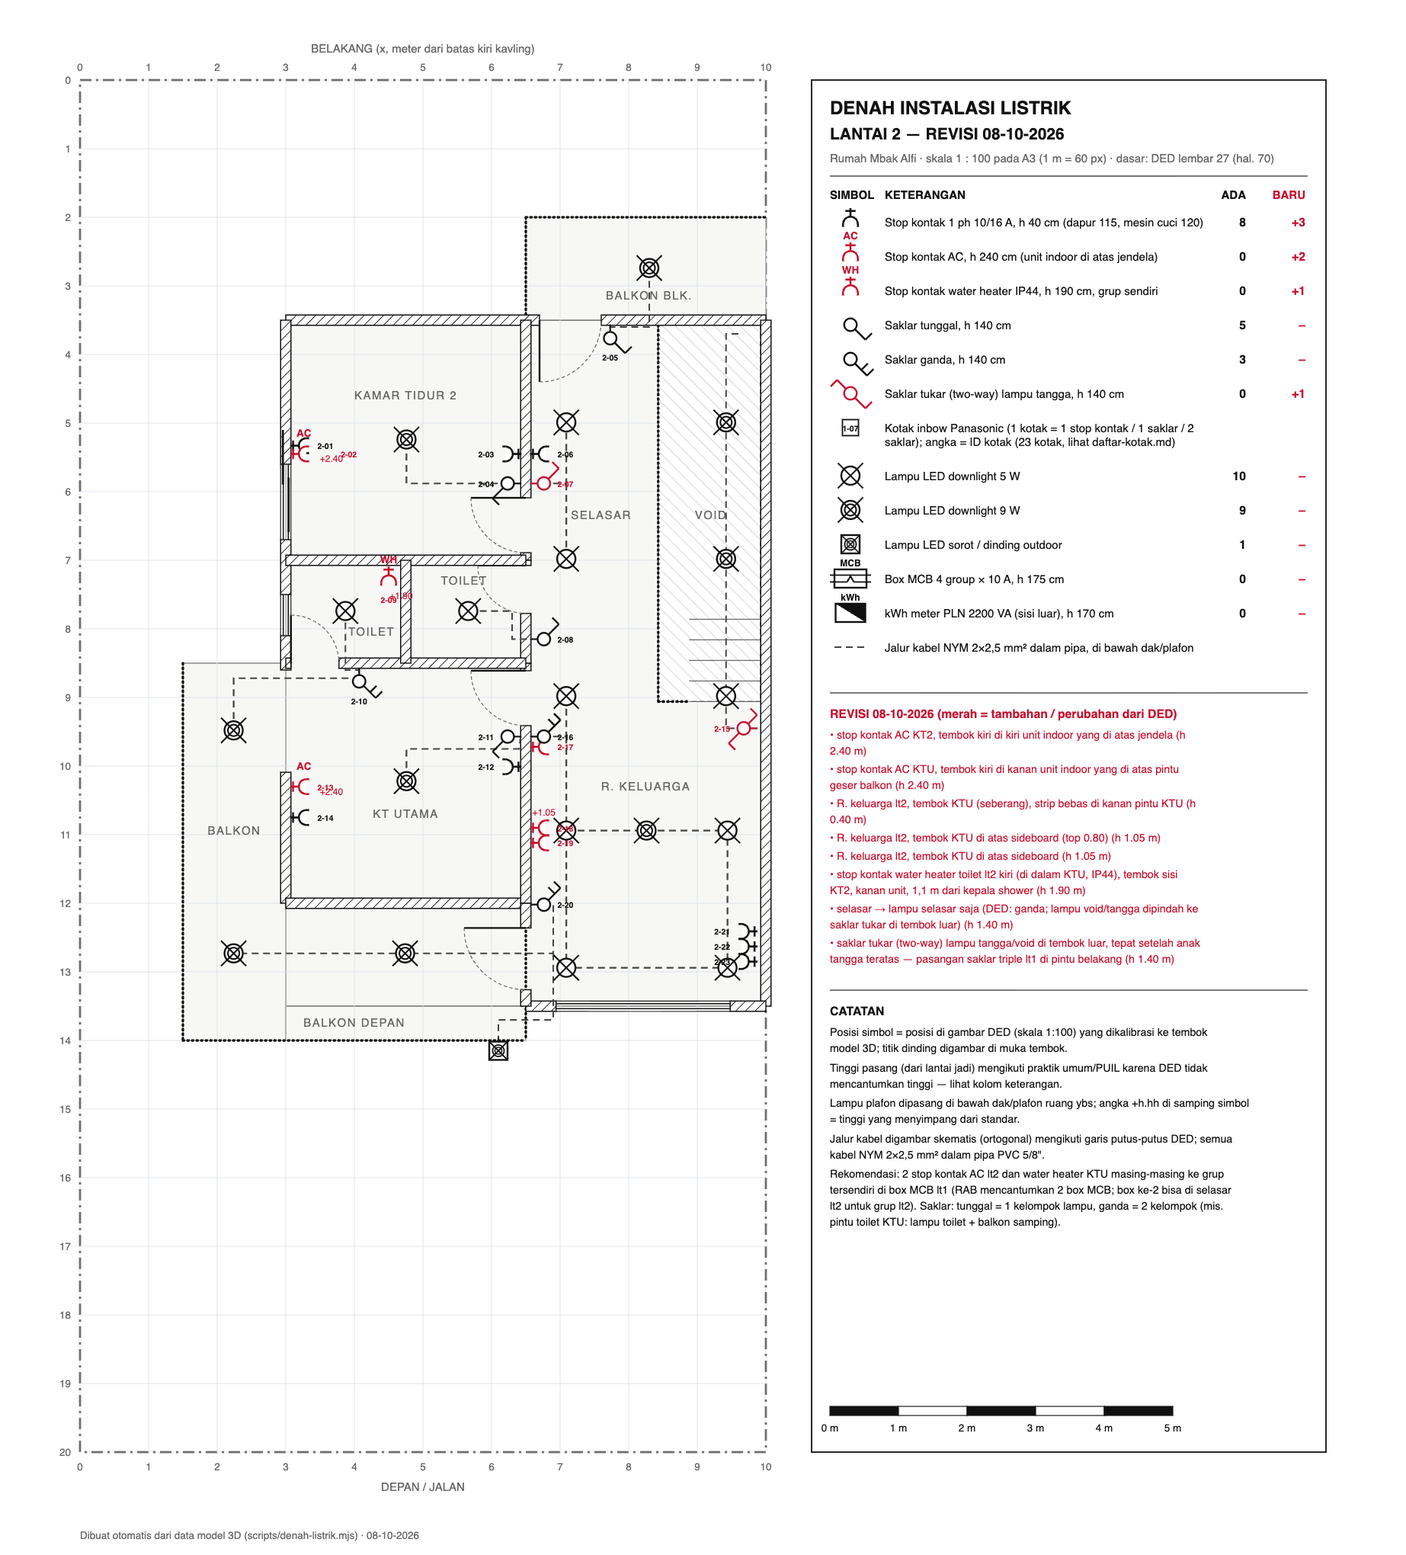
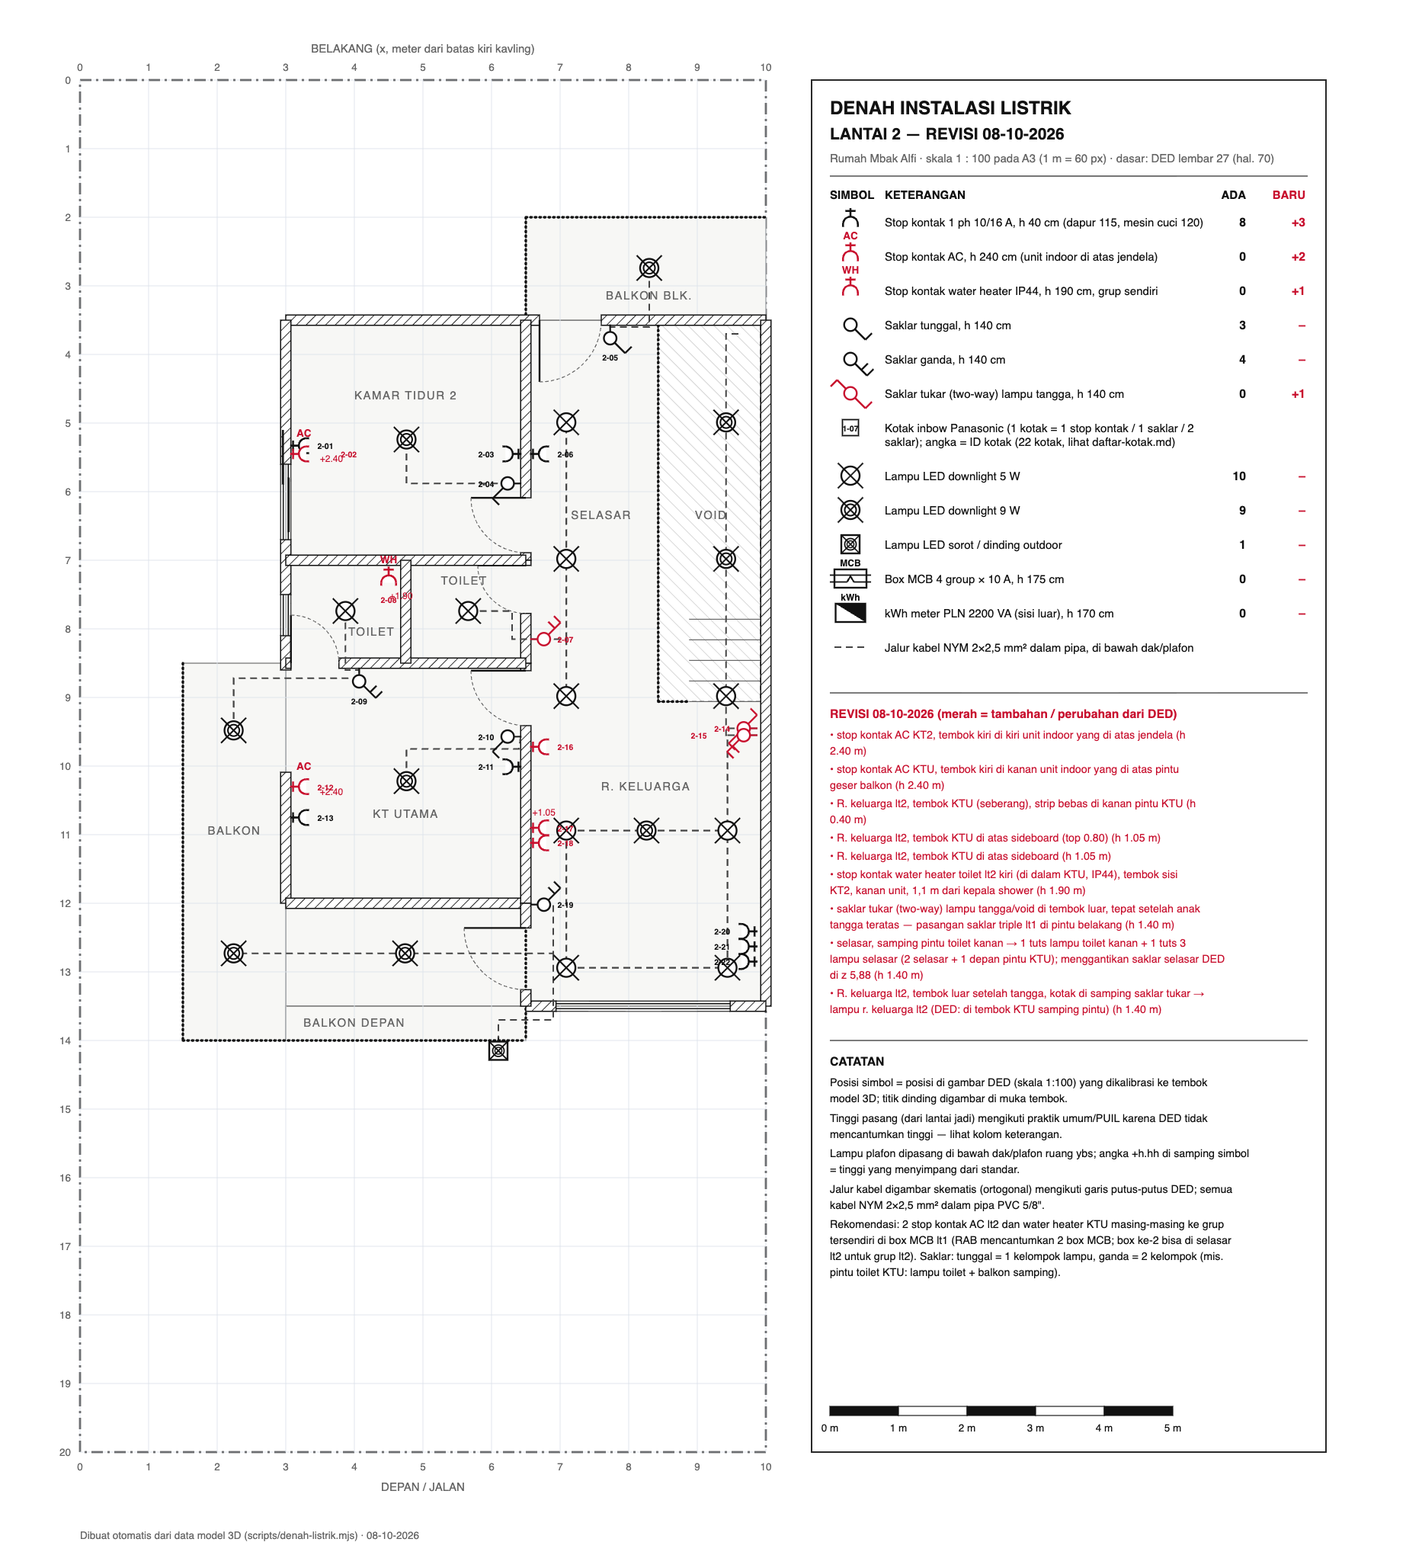
Lantai 2: saklar ganda r. keluarga ke tembok luar di samping saklar tukar; saklar selasar digabung
- Saklar ganda r. keluarga lt2 pindah dari tembok KTU ke tembok luar (9,876; 9,55), kotak di samping
  saklar tukar; saklar selasar di z 5,88 dihapus; saklar di samping pintu toilet kanan jadi ganda:
  1 tuts toilet kanan + 1 tuts 3 lampu selasar (2 selasar + lampu depan pintu KTU).
- Jalur kabel, denah lt2, daftar kotak (22 kotak lt2) dan RAB diperbarui; label ID kotak yang
  berdampingan dinaikkan supaya tidak saling menutup.

Changed region(s): [[0.587, 0.5559, 0.8959, 0.8338], [0.3707, 0.4632, 0.4016, 0.4941]]

diff --git a/src/layout/elektrik.js b/src/layout/elektrik.js
@@ -85,12 +85,11 @@ export const PERANGKAT = [
   // sebelum ujung (stub), tunggal = batang berakhir di tick; dicocokkan dengan jumlah kelompok lampu per saklar & legenda ----------------
   { lvl: 'lt2', t: 'saklar1', x: 7.73, z: 3.564, n: '+z', h: 1.4, r: 'selasar, kanan pintu balkon belakang → lampu balkon' },
   { lvl: 'lt2', t: 'saklar1', x: 6.435, z: 5.88, n: '-x', h: 1.4, r: 'KT2, samping pintu → lampu KT2 (simbol DED: tunggal, 1 kelompok lampu)' },
-  { lvl: 'lt2', t: 'saklar1', x: 6.563, z: 5.88, n: '+x', h: 1.4, rev: true, r: 'REVISI: selasar → lampu selasar saja (DED: ganda; lampu void/tangga dipindah ke saklar tukar di tembok luar)' },
   { lvl: 'lt2', t: 'saklar1', tukar: true, x: 9.876, z: 9.45, n: '-x', h: 1.4, baru: true, r: 'REVISI: saklar tukar (two-way) lampu tangga/void di tembok luar, tepat setelah anak tangga teratas — pasangan saklar triple lt1 di pintu belakang' },
-  { lvl: 'lt2', t: 'saklar1', x: 6.563, z: 8.15, n: '+x', h: 1.4, r: 'selasar → lampu toilet kanan' },
+  { lvl: 'lt2', t: 'saklar2', x: 6.563, z: 8.15, n: '+x', h: 1.4, rev: true, r: 'REVISI: selasar, samping pintu toilet kanan → 1 tuts lampu toilet kanan + 1 tuts 3 lampu selasar (2 selasar + 1 depan pintu KTU); menggantikan saklar selasar DED di z 5,88' },
   { lvl: 'lt2', t: 'saklar2', x: 4.07, z: 8.565, n: '+z', h: 1.4, r: 'KTU, kanan pintu toilet → lampu toilet kiri + lampu balkon samping kiri (simbol DED: ganda, 2 kelompok)' },
   { lvl: 'lt2', t: 'saklar1', x: 6.435, z: 9.57, n: '-x', h: 1.4, r: 'KTU, samping pintu → lampu KTU' },
-  { lvl: 'lt2', t: 'saklar2', x: 6.563, z: 9.57, n: '+x', h: 1.4, r: 'R. keluarga lt2, samping pintu KTU → lampu r. keluarga' },
+  { lvl: 'lt2', t: 'saklar2', x: 9.876, z: 9.55, n: '-x', h: 1.4, rev: true, r: 'REVISI: R. keluarga lt2, tembok luar setelah tangga, kotak di samping saklar tukar → lampu r. keluarga lt2 (DED: di tembok KTU samping pintu)' },
   { lvl: 'lt2', t: 'saklar2', x: 6.563, z: 12.02, n: '+x', h: 1.4, r: 'R. keluarga lt2, samping pintu balkon → lampu balkon depan + sorot' },
 ];
 
@@ -158,16 +157,17 @@ export const JALUR = [
   // lantai 2
   { lvl: 'lt2', pts: [[7.73, 3.575], [7.73, 3.6], [8.30, 3.6], [8.30, 2.74]] },
   { lvl: 'lt2', pts: [[6.425, 5.88], [4.76, 5.88], [4.76, 5.24]] },
-  { lvl: 'lt2', pts: [[6.563, 5.88], [7.09, 5.88], [7.09, 4.99]] },
-  { lvl: 'lt2', pts: [[7.09, 5.88], [7.09, 6.98]] },
+  { lvl: 'lt2', pts: [[6.575, 8.15], [7.09, 8.15], [7.09, 8.98]] }, // saklar ganda selasar → lampu depan pintu KTU
+  { lvl: 'lt2', pts: [[7.09, 8.15], [7.09, 6.98], [7.09, 4.99]] }, // … dan 2 lampu selasar
   { lvl: 'lt2', pts: [[9.876, 9.45], [9.42, 9.45], [9.42, 8.98], [9.42, 4.99]] }, // lampu void/tangga dari saklar tukar lt2
   { lvl: 'lt2', pts: [[9.6, 3.7], [9.42, 3.7], [9.42, 4.99]] }, // traveller two-way dari saklar triple lt1 (riser di pojok belakang kanan)
   { lvl: 'lt2', pts: [[5.66, 7.74], [6.3, 7.74], [6.3, 8.15], [6.575, 8.15]] },
   { lvl: 'lt2', pts: [[3.87, 7.74], [3.87, 8.6], [4.07, 8.6], [4.07, 8.575]] },
   { lvl: 'lt2', pts: [[2.24, 9.48], [2.24, 8.72], [4.07, 8.72], [4.07, 8.6]] },
   { lvl: 'lt2', pts: [[6.425, 9.57], [6.4, 9.75], [4.76, 9.75], [4.76, 10.22]] },
-  { lvl: 'lt2', pts: [[6.563, 9.57], [7.09, 9.57], [7.09, 8.98]] },
-  { lvl: 'lt2', pts: [[7.09, 9.57], [7.09, 12.94], [9.44, 12.94], [9.44, 10.94]] },
+  { lvl: 'lt2', pts: [[9.876, 9.55], [9.44, 9.55], [9.44, 10.94]] }, // saklar ganda r. keluarga lt2 (tembok luar) → lampu r. keluarga
+  { lvl: 'lt2', pts: [[9.44, 9.55], [9.42, 9.55], [9.42, 8.98]] },
+  { lvl: 'lt2', pts: [[7.09, 10.94], [7.09, 12.94], [9.44, 12.94], [9.44, 10.94]] },
   { lvl: 'lt2', pts: [[7.09, 10.94], [9.44, 10.94]] },
   { lvl: 'lt2', pts: [[6.575, 12.02], [6.9, 12.02], [6.9, 12.73], [4.74, 12.73], [2.24, 12.73]] },
   { lvl: 'lt2', pts: [[6.9, 12.73], [6.9, 13.7], [6.1, 13.7], [6.1, 13.95]] },

diff --git a/src/elektrik.js b/src/elektrik.js
@@ -67,7 +67,11 @@ export function buildElektrik(ceilingAt) {
     holder.name = `elek-${d.t}`; holder.userData.elek = d; g.add(holder);
     if (d.t === 'stopkontak' || d.t === 'saklar1' || d.t === 'saklar2') {
       placeAsset(holder, d.t === 'stopkontak' ? 'pn_socket' : d.t === 'saklar1' ? 'pn_sw1' : 'pn_sw2', {});
-      if (d.id) { const sp = labelSprite(d.id, !!(d.baru || d.rev)); sp.position.set(0, 0.085, 0.03); holder.add(sp); }
+      if (d.id) { // label; kotak berdampingan (< 15 cm) → label kotak kedua dinaikkan supaya tidak saling tutup
+        const tetangga = PERANGKAT.filter((q) => q.lvl === d.lvl && q.id && q !== d && Math.hypot(q.x - d.x, q.z - d.z) < 0.15);
+        const naik = tetangga.some((q) => q.id < d.id);
+        const sp = labelSprite(d.id, !!(d.baru || d.rev)); sp.position.set(0, naik ? 0.145 : 0.085, 0.03); holder.add(sp);
+      }
     } else if (d.t === 'cctv') {
       // kamera: pelat bracket di bidang pasang; kepala ('head') diputar. Tembok: yaw relatif normal + pitch. Plafon ('dn'):
       // holder diputar Y(yaw dunia) lalu X(+90°) supaya lengan menggantung; kepala ditegakkan −(90°−pitch).

diff --git a/docs/daftar-kotak.md b/docs/daftar-kotak.md
@@ -38,7 +38,7 @@ ID kotak yang sama dipakai di tiga tempat supaya bisa dicocokkan saat evaluasi: 
 | **1-28** | R. keluarga | 1 stop kontak | 0.35 | 9.87, 12.52 | tembok kanan (muka ke kiri) | 🔴 REVISI: R. keluarga, tembok kanan depan, di balik meja samping (DED: z 10.94) |
 | **1-29** | Selasar samping (luar) | 2 saklar | 1.40 | 2.94, 10.22 | tembok kanan (muka ke kiri) | teras samping (luar) → lampu taman/pagar |
 
-## Lantai 2 — 23 kotak (14 stop kontak, 6 × 1 saklar, 3 × 2 saklar)
+## Lantai 2 — 22 kotak (14 stop kontak, 4 × 1 saklar, 4 × 2 saklar)
 
 | ID | Ruang | Isi kotak | h (m) | Posisi (x, z) | Tembok | Keterangan |
 |---|---|---|---|---|---|---|
@@ -48,31 +48,30 @@ ID kotak yang sama dipakai di tiga tempat supaya bisa dicocokkan saat evaluasi: 
 | **2-04** | KT2 | 1 saklar | 1.40 | 6.43, 5.88 | tembok kanan (muka ke kiri) | KT2, samping pintu → lampu KT2 (simbol DED: tunggal, 1 kelompok lampu) |
 | **2-05** | Selasar | 1 saklar | 1.40 | 7.73, 3.56 | tembok belakang ruang (muka ke +z / ke depan) | selasar, kanan pintu balkon belakang → lampu balkon |
 | **2-06** | Selasar | 1 stop kontak | 0.40 | 6.56, 5.45 | tembok kiri (muka ke kanan) | selasar, tembok KT2 |
-| **2-07** | Selasar | 1 saklar | 1.40 | 6.56, 5.88 | tembok kiri (muka ke kanan) | 🔴 REVISI: selasar → lampu selasar saja (DED: ganda; lampu void/tangga dipindah ke saklar tukar di tembok luar) |
-| **2-08** | Selasar | 1 saklar | 1.40 | 6.56, 8.15 | tembok kiri (muka ke kanan) | selasar → lampu toilet kanan |
-| **2-09** | Toilet kiri (KTU) | 1 stop kontak water heater (IP44) | 1.90 | 4.50, 7.09 | tembok belakang ruang (muka ke +z / ke depan) | 🔴 BARU: stop kontak water heater toilet lt2 kiri (di dalam KTU, IP44), tembok sisi KT2, kanan unit, 1,1 m dari kepala shower |
-| **2-10** | KT utama | 2 saklar | 1.40 | 4.07, 8.56 | tembok belakang ruang (muka ke +z / ke depan) | KTU, kanan pintu toilet → lampu toilet kiri + lampu balkon samping kiri (simbol DED: ganda, 2 kelompok) |
-| **2-11** | KT utama | 1 saklar | 1.40 | 6.43, 9.57 | tembok kanan (muka ke kiri) | KTU, samping pintu → lampu KTU |
-| **2-12** | KT utama | 1 stop kontak | 0.40 | 6.43, 10.01 | tembok kanan (muka ke kiri) | KTU, tembok kanan (meja rias) |
-| **2-13** | KT utama | 1 stop kontak AC | 2.40 | 3.06, 10.30 | tembok kiri (muka ke kanan) | 🔴 BARU: stop kontak AC KTU, tembok kiri di kanan unit indoor yang di atas pintu geser balkon |
-| **2-14** | KT utama | 1 stop kontak | 0.40 | 3.06, 10.75 | tembok kiri (muka ke kanan) | KTU, tembok kiri |
-| **2-15** | R. keluarga lt2 | 1 saklar tukar | 1.40 | 9.88, 9.45 | tembok kanan (muka ke kiri) | 🔴 BARU: saklar tukar (two-way) lampu tangga/void di tembok luar, tepat setelah anak tangga teratas — pasangan saklar triple lt1 di pintu belakang |
-| **2-16** | R. keluarga lt2 | 2 saklar | 1.40 | 6.56, 9.57 | tembok kiri (muka ke kanan) | R. keluarga lt2, samping pintu KTU → lampu r. keluarga |
-| **2-17** | R. keluarga lt2 | 1 stop kontak | 0.40 | 6.56, 9.72 | tembok kiri (muka ke kanan) | 🔴 BARU: R. keluarga lt2, tembok KTU (seberang), strip bebas di kanan pintu KTU |
-| **2-18** | R. keluarga lt2 | 1 stop kontak | 1.05 | 6.56, 10.90 | tembok kiri (muka ke kanan) | 🔴 BARU: R. keluarga lt2, tembok KTU di atas sideboard (top 0.80) |
-| **2-19** | R. keluarga lt2 | 1 stop kontak | 1.05 | 6.56, 11.12 | tembok kiri (muka ke kanan) | 🔴 BARU: R. keluarga lt2, tembok KTU di atas sideboard |
-| **2-20** | R. keluarga lt2 | 2 saklar | 1.40 | 6.56, 12.02 | tembok kiri (muka ke kanan) | R. keluarga lt2, samping pintu balkon → lampu balkon depan + sorot |
-| **2-21** | R. keluarga lt2 | 1 stop kontak | 0.40 | 9.88, 12.41 | tembok kanan (muka ke kiri) | R. keluarga lt2, tembok kanan depan |
-| **2-22** | R. keluarga lt2 | 1 stop kontak | 0.40 | 9.88, 12.63 | tembok kanan (muka ke kiri) | R. keluarga lt2, tembok kanan depan |
-| **2-23** | R. keluarga lt2 | 1 stop kontak | 0.40 | 9.88, 12.85 | tembok kanan (muka ke kiri) | R. keluarga lt2, tembok kanan depan |
+| **2-07** | Selasar | 2 saklar | 1.40 | 6.56, 8.15 | tembok kiri (muka ke kanan) | 🔴 REVISI: selasar, samping pintu toilet kanan → 1 tuts lampu toilet kanan + 1 tuts 3 lampu selasar (2 selasar + 1 depan pintu KTU); menggantikan saklar selasar DED di z 5,88 |
+| **2-08** | Toilet kiri (KTU) | 1 stop kontak water heater (IP44) | 1.90 | 4.50, 7.09 | tembok belakang ruang (muka ke +z / ke depan) | 🔴 BARU: stop kontak water heater toilet lt2 kiri (di dalam KTU, IP44), tembok sisi KT2, kanan unit, 1,1 m dari kepala shower |
+| **2-09** | KT utama | 2 saklar | 1.40 | 4.07, 8.56 | tembok belakang ruang (muka ke +z / ke depan) | KTU, kanan pintu toilet → lampu toilet kiri + lampu balkon samping kiri (simbol DED: ganda, 2 kelompok) |
+| **2-10** | KT utama | 1 saklar | 1.40 | 6.43, 9.57 | tembok kanan (muka ke kiri) | KTU, samping pintu → lampu KTU |
+| **2-11** | KT utama | 1 stop kontak | 0.40 | 6.43, 10.01 | tembok kanan (muka ke kiri) | KTU, tembok kanan (meja rias) |
+| **2-12** | KT utama | 1 stop kontak AC | 2.40 | 3.06, 10.30 | tembok kiri (muka ke kanan) | 🔴 BARU: stop kontak AC KTU, tembok kiri di kanan unit indoor yang di atas pintu geser balkon |
+| **2-13** | KT utama | 1 stop kontak | 0.40 | 3.06, 10.75 | tembok kiri (muka ke kanan) | KTU, tembok kiri |
+| **2-14** | R. keluarga lt2 | 1 saklar tukar | 1.40 | 9.88, 9.45 | tembok kanan (muka ke kiri) | 🔴 BARU: saklar tukar (two-way) lampu tangga/void di tembok luar, tepat setelah anak tangga teratas — pasangan saklar triple lt1 di pintu belakang |
+| **2-15** | R. keluarga lt2 | 2 saklar | 1.40 | 9.88, 9.55 | tembok kanan (muka ke kiri) | 🔴 REVISI: R. keluarga lt2, tembok luar setelah tangga, kotak di samping saklar tukar → lampu r. keluarga lt2 (DED: di tembok KTU samping pintu) |
+| **2-16** | R. keluarga lt2 | 1 stop kontak | 0.40 | 6.56, 9.72 | tembok kiri (muka ke kanan) | 🔴 BARU: R. keluarga lt2, tembok KTU (seberang), strip bebas di kanan pintu KTU |
+| **2-17** | R. keluarga lt2 | 1 stop kontak | 1.05 | 6.56, 10.90 | tembok kiri (muka ke kanan) | 🔴 BARU: R. keluarga lt2, tembok KTU di atas sideboard (top 0.80) |
+| **2-18** | R. keluarga lt2 | 1 stop kontak | 1.05 | 6.56, 11.12 | tembok kiri (muka ke kanan) | 🔴 BARU: R. keluarga lt2, tembok KTU di atas sideboard |
+| **2-19** | R. keluarga lt2 | 2 saklar | 1.40 | 6.56, 12.02 | tembok kiri (muka ke kanan) | R. keluarga lt2, samping pintu balkon → lampu balkon depan + sorot |
+| **2-20** | R. keluarga lt2 | 1 stop kontak | 0.40 | 9.88, 12.41 | tembok kanan (muka ke kiri) | R. keluarga lt2, tembok kanan depan |
+| **2-21** | R. keluarga lt2 | 1 stop kontak | 0.40 | 9.88, 12.63 | tembok kanan (muka ke kiri) | R. keluarga lt2, tembok kanan depan |
+| **2-22** | R. keluarga lt2 | 1 stop kontak | 0.40 | 9.88, 12.85 | tembok kanan (muka ke kiri) | R. keluarga lt2, tembok kanan depan |
 
 ## Rekap belanja kotak
 
 | Isi kotak | Jumlah |
 |---|---|
 | Kotak 1 stop kontak (termasuk 3 AC, 2 water heater IP44, 2 NVR) | 35 |
-| Kotak 1 saklar (termasuk 2 saklar tukar) | 9 |
-| Kotak 2 saklar | 8 |
-| **Total kotak / inbow doos** | **52** |
+| Kotak 1 saklar (termasuk 2 saklar tukar) | 7 |
+| Kotak 2 saklar | 9 |
+| **Total kotak / inbow doos** | **51** |
 
-Catatan: stop kontak water heater (1-16, 2-09) perlu varian dengan tutup (IP44) — pastikan seri kotak ini punya varian itu, kalau tidak pakai stop kontak IP44 merek lain di titik tersebut. Ukuran pelat 90 mm adalah asumsi dari inbow doos 86 mm; cocokkan dengan kemasan produk saat evaluasi.
+Catatan: stop kontak water heater (1-16, 2-08) perlu varian dengan tutup (IP44) — pastikan seri kotak ini punya varian itu, kalau tidak pakai stop kontak IP44 merek lain di titik tersebut. Ukuran pelat 90 mm adalah asumsi dari inbow doos 86 mm; cocokkan dengan kemasan produk saat evaluasi.

diff --git a/docs/rab-listrik.md b/docs/rab-listrik.md
@@ -9,22 +9,22 @@ Dihitung otomatis oleh `scripts/rab-listrik.mjs` dari data model 3D (`src/layout
 | Stop kontak biasa (DED 21 + revisi 9) | 30 |
 | Stop kontak AC | 3 |
 | Stop kontak water heater (IP44) | 2 |
-| Sakelar tunggal / ganda / triple / tukar | 7 / 8 / 0 / 2 |
+| Sakelar tunggal / ganda / triple / tukar | 5 / 9 / 0 / 2 |
 | Downlight 9 W / 5 W | 19 / 19 |
 | Lampu sorot/dinding outdoor | 5 |
-| **Titik instalasi (lampu + stop kontak + sakelar)** | **95** (RAB: 65) |
+| **Titik instalasi (lampu + stop kontak + sakelar)** | **94** (RAB: 65) |
 
 ### Panjang jalur (dari geometri model)
 
 | Jalur | Lantai 1 | Lantai 2 | Keterangan |
 |---|---:|---:|---|
-| Cabang lampu (polyline denah + turunan ke sakelar) | 111.4 m | 61.3 m | NYM 2×1,5 |
-| Fase bersama lampu (box MCB → semua sakelar) | 57.3 m | 67.1 m | NYM 2×1,5, lt2 termasuk riser 3.8 m |
+| Cabang lampu (polyline denah + turunan ke sakelar) | 111.4 m | 63.2 m | NYM 2×1,5 |
+| Fase bersama lampu (box MCB → semua sakelar) | 57.3 m | 63.1 m | NYM 2×1,5, lt2 termasuk riser 3.8 m |
 | Rantai stop kontak (box MCB → tiap titik, naik–turun dak) | 150.6 m | 94.5 m | NYM 3×2,5 |
 | Home-run AC (5.8 + 12.7 + 7.8 m) | | | 26.3 m, NYM 3×2,5 |
 | Home-run water heater (9.4 + 13 m) | | | 22.4 m, NYM 3×2,5 |
-| **Kabel dibeli** (+10 % potongan, +0,5 m/titik) | | | NYM 2×1,5 **356 m** → 4 roll; NYM 3×2,5 **341 m** → 4 roll |
-| **Pipa 5/8"** (90 % jalur, +5 % potongan) | | | **558 m** → 140 batang @4 m |
+| **Kabel dibeli** (+10 % potongan, +0,5 m/titik) | | | NYM 2×1,5 **354 m** → 4 roll; NYM 3×2,5 **341 m** → 4 roll |
+| **Pipa 5/8"** (90 % jalur, +5 % potongan) | | | **556 m** → 140 batang @4 m |
 
 ## B. Rencana anggaran (revisi)
 
@@ -33,8 +33,8 @@ Dihitung otomatis oleh `scripts/rab-listrik.mjs` dari data model 3D (`src/layout
 | 1 | Pasang stop kontak 1 ph 16 A (termasuk 9 tambahan revisi) | 30 | bh | Rp 75.000 | Rp 2.250.000 |
 | 2 | Pasang stop kontak AC 16 A \* | 3 | bh | Rp 95.000 | Rp 285.000 |
 | 3 | Pasang stop kontak water heater 16 A IP44 (tutup) \* | 2 | bh | Rp 110.000 | Rp 220.000 |
-| 4 | Pasang sakelar tunggal | 7 | bh | Rp 35.000 | Rp 245.000 |
-| 5 | Pasang sakelar ganda | 8 | bh | Rp 55.000 | Rp 440.000 |
+| 4 | Pasang sakelar tunggal | 5 | bh | Rp 35.000 | Rp 175.000 |
+| 5 | Pasang sakelar ganda | 9 | bh | Rp 55.000 | Rp 495.000 |
 | 6 | Pasang sakelar tukar (two-way) lampu tangga, lt2 tembok luar \* | 2 | bh | Rp 45.000 | Rp 90.000 |
 | 7 | Kabel traveller NYM 3×1,5 mm² antar saklar tukar (lt1 pintu belakang ↔ lt2 atas tangga) \* | 14 | m | Rp 7.000 | Rp 98.000 |
 | 8 | Pasang lampu LED downlight 9 W | 19 | bh | Rp 105.000 | Rp 1.995.000 |
@@ -43,17 +43,17 @@ Dihitung otomatis oleh `scripts/rab-listrik.mjs` dari data model 3D (`src/layout
 | 11 | Pasang antena TV (titik) | 1 | bh | Rp 155.000 | Rp 155.000 |
 | 12 | Box MCB 8 group (pengganti 4 group) \* | 1 | bh | Rp 185.000 | Rp 185.000 |
 | 13 | MCB 1 fasa 10 A / 16 A (penerangan lt1, lt2; stop kontak lt1, lt2; AC lt1; AC lt2; water heater) | 7 | bh | Rp 132.500 | Rp 927.500 |
-| 14 | Kabel NYM 2×1,5 mm² — jalur lampu (356 m) | 4 | roll | Rp 375.000 | Rp 1.500.000 |
+| 14 | Kabel NYM 2×1,5 mm² — jalur lampu (354 m) | 4 | roll | Rp 375.000 | Rp 1.500.000 |
 | 15 | Kabel NYM 3×2,5 mm² — stop kontak (285 m) + AC (30 m) + water heater (26 m) \* | 4 | roll | Rp 850.000 | Rp 3.400.000 |
 | 16 | Kabel NYM 3×4 mm² — kWh meter → box MCB \* | 5 | m | Rp 15.000 | Rp 75.000 |
-| 17 | Pipa PVC listrik 5/8" (558 m) | 140 | batang | Rp 12.000 | Rp 1.680.000 |
-| 18 | Aksesori (inbow/tee-dos, klem, isolasi) per titik | 95 | titik | Rp 8.750 | Rp 831.250 |
-| 19 | Jasa tukang instalasi per titik | 95 | titik | Rp 40.000 | Rp 3.800.000 |
+| 17 | Pipa PVC listrik 5/8" (556 m) | 140 | batang | Rp 12.000 | Rp 1.680.000 |
+| 18 | Aksesori (inbow/tee-dos, klem, isolasi) per titik | 94 | titik | Rp 8.750 | Rp 822.500 |
+| 19 | Jasa tukang instalasi per titik | 94 | titik | Rp 40.000 | Rp 3.760.000 |
 | 20 | Grounding: elektroda arde + kabel BC 6 mm² + klem \* | 1 | ls | Rp 450.000 | Rp 450.000 |
 | 21 | kWh meter PLN 2200 VA (pasang baru, SLO) | 1 | unit | Rp 3.250.000 | Rp 3.250.000 |
-| | **Total (harga satuan, tanpa overhead)** | | | | **Rp 24.111.750** |
-| | Overhead 5 % & profit 10 % (skema RAB) | | | | Rp 3.616.763 |
-| | **Total setara RAB** | | | | **Rp 27.728.512** |
+| | **Total (harga satuan, tanpa overhead)** | | | | **Rp 24.048.000** |
+| | Overhead 5 % & profit 10 % (skema RAB) | | | | Rp 3.607.200 |
+| | **Total setara RAB** | | | | **Rp 27.655.200** |
 
 Opsional (direkomendasikan):
 
@@ -61,7 +61,7 @@ Opsional (direkomendasikan):
 |---|---:|
 | Upgrade daya ke 3500 VA (selisih dari 2200 VA) \* | Rp 1.050.000 |
 | ELCB/RCBO 2P 30 mA untuk grup stop kontak (keamanan) \* | Rp 450.000 |
-| **Total dengan opsional** | **Rp 25.611.750** |
+| **Total dengan opsional** | **Rp 25.548.000** |
 
 ## C. CCTV (revisi 06-10-2026, semua harga perkiraan pasar)
 
@@ -75,7 +75,7 @@ Opsional (direkomendasikan):
 | 6 | Konektor RJ45, box, aksesori | 1 | ls | Rp 150.000 | Rp 150.000 |
 | 7 | Jasa pasang & setting per kamera | 4 | titik | Rp 150.000 | Rp 600.000 |
 | | **Subtotal CCTV** | | | | **Rp 5.315.500** |
-| | **Total listrik + CCTV (harga satuan)** | | | | **Rp 29.427.250** |
+| | **Total listrik + CCTV (harga satuan)** | | | | **Rp 29.363.500** |
 
 Stop kontak NVR sudah termasuk di bagian B. Kamera IP PoE: listrik & data lewat 1 kabel CAT6, tidak perlu stop kontak di tiap kamera. Pipa data ditanam sekarang sebelum plester.
 
@@ -99,12 +99,12 @@ Stop kontak NVR sudah termasuk di bagian B. Kamera IP PoE: listrik & data lewat 
 | kWh meter 2200 VA | Rp 3.250.000 |
 | **Total RAB V3 (14 baris listrik, harga satuan)** | **Rp 20.662.750** |
 | Total RAB V3 setelah overhead & profit (sub total IX) | Rp 23.762.163 |
-| **Selisih estimasi revisi − RAB V3** (basis harga satuan) | **Rp 3.449.000** (+17 %) |
-| Selisih setelah overhead & profit | Rp 3.966.350 |
+| **Selisih estimasi revisi − RAB V3** (basis harga satuan) | **Rp 3.385.250** (+16 %) |
+| Selisih setelah overhead & profit | Rp 3.893.037 |
 
 ## E. Catatan
 
-- RAB memakai kabel 2 inti (NYM 2×2,5 / 2×1,5) tanpa grounding; estimasi ini memakai **NYM 3×2,5 untuk stop kontak & AC plus elektroda arde** sesuai PUIL — itu penyumbang selisih terbesar. Titik 95 vs 65 di RAB: 18 titik sudah ada di gambar DED tapi tidak terhitung di RAB (lampu carport, lampu pagar, selisih hitung), 12 titik tambahan revisi.
+- RAB memakai kabel 2 inti (NYM 2×2,5 / 2×1,5) tanpa grounding; estimasi ini memakai **NYM 3×2,5 untuk stop kontak & AC plus elektroda arde** sesuai PUIL — itu penyumbang selisih terbesar. Titik 94 vs 65 di RAB: 17 titik sudah ada di gambar DED tapi tidak terhitung di RAB (lampu carport, lampu pagar, selisih hitung), 12 titik tambahan revisi.
 - RAB mengalokasikan 12 roll kabel (1.200 m) tapi hanya 32,5 batang pipa (130 m); perhitungan geometri memberi ±600 m kabel dan ±480 m pipa — RAB kelebihan kabel, kekurangan pipa.
 - Panjang kabel dihitung dari rute ortogonal di bawah dak/plat (tinggi 3.6 m lt1, 3.4 m lt2) dengan turunan vertikal ke tiap perangkat; rantai stop kontak memakai urutan tetangga terdekat dari box MCB — realisasi tukang bisa ±15 %.
 - Harga RAB "Pasang …" dianggap sudah termasuk material + pemasangan; aksesori dan jasa per titik (Rp 8.750 + Rp 40.000) mengikuti angka RAB.
